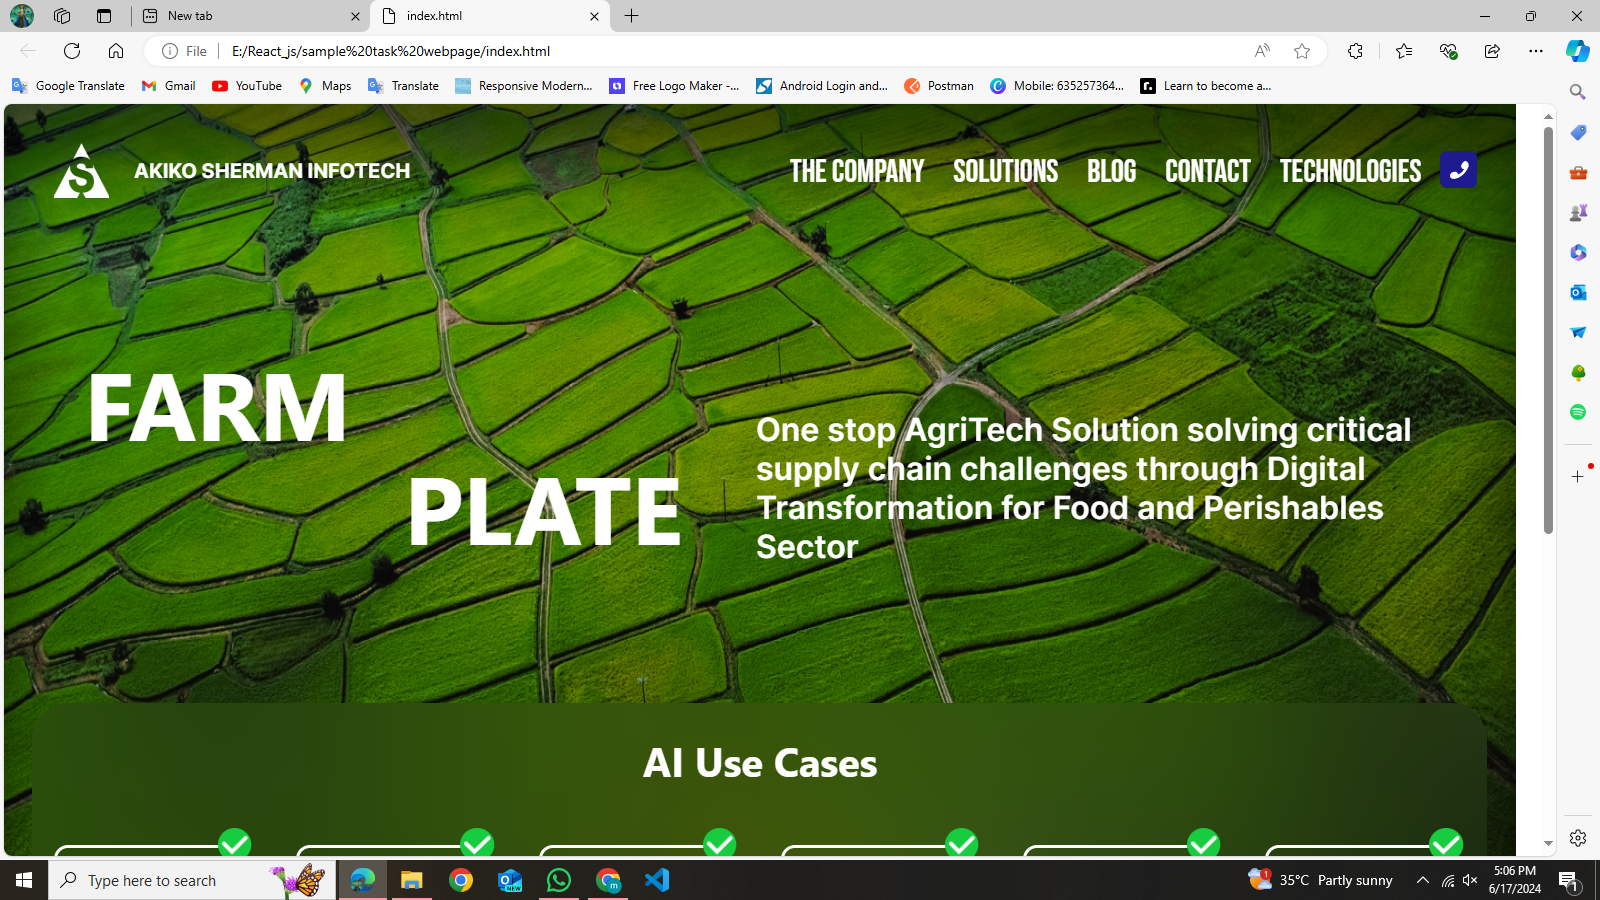
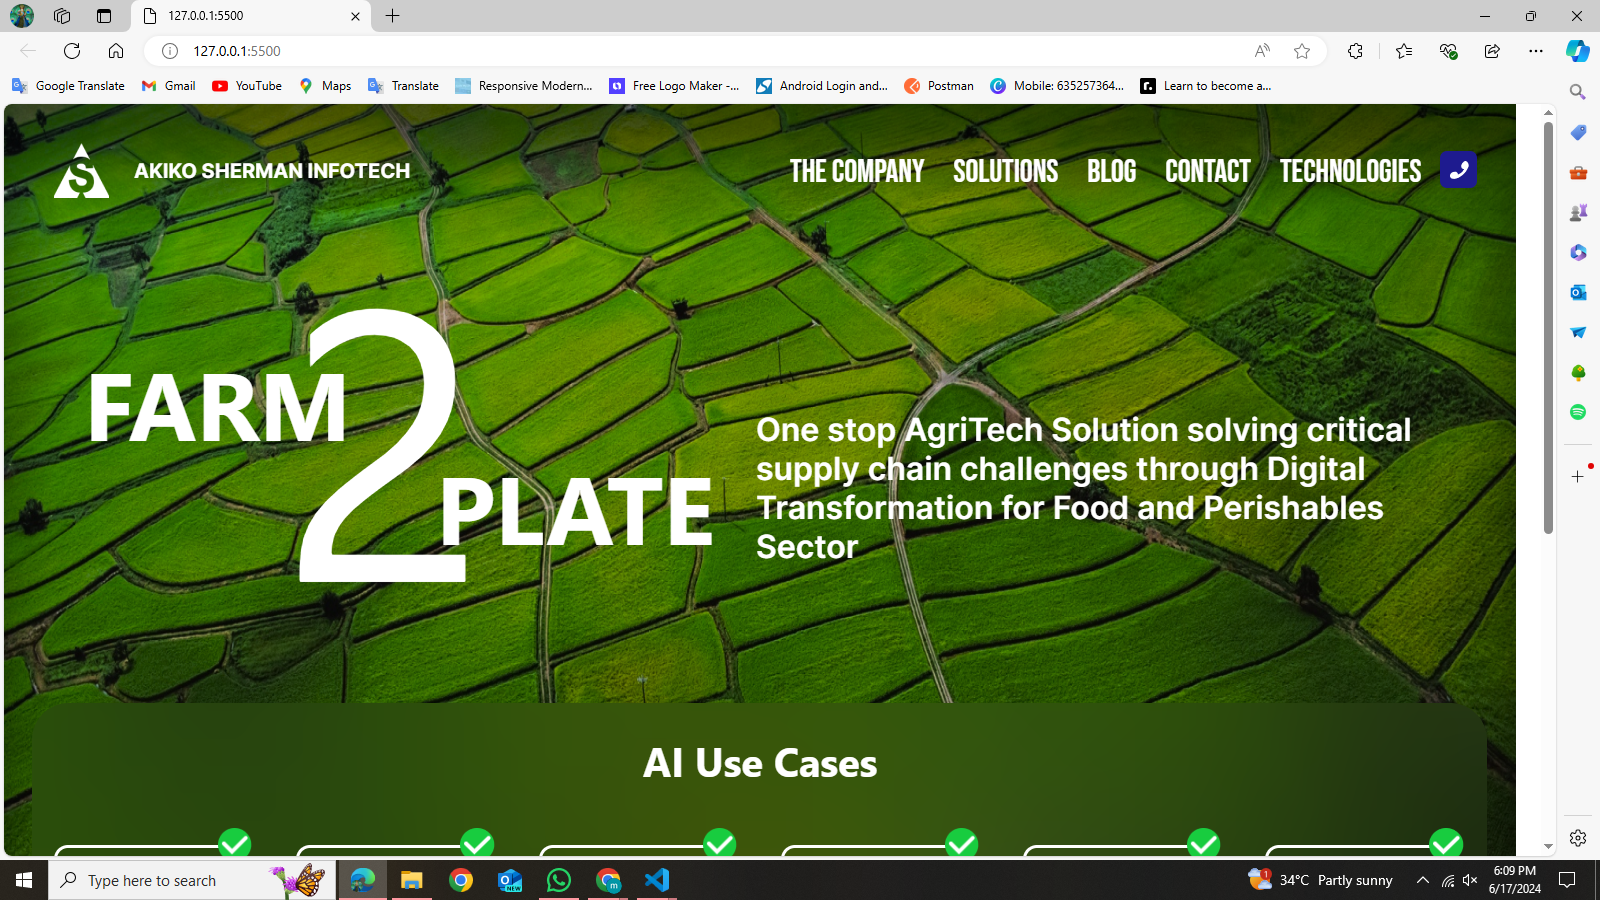
title change

diff --git a/index.html b/index.html
@@ -30,6 +30,7 @@
       <img class="header-item" alt="" src="./public/phone.png" />
     </div>
     <b class="farm">FARM</b>
+    <p class="farm-2">2</p>
     <b class="plate">PLATE</b>
     <div class="one-stop-agritech">
       One stop AgriTech Solution solving critical supply chain challenges

diff --git a/index.css b/index.css
@@ -14,7 +14,13 @@
 }
 .plate {
   top: 21.063rem;
-  left: 25rem;
+  left: 27rem;
+}
+.farm-2{
+position: absolute;
+  left: 17.2rem;
+  top: -20rem;
+  font-size: 24rem;
 }
 .one-stop-agritech {
   position: absolute;
